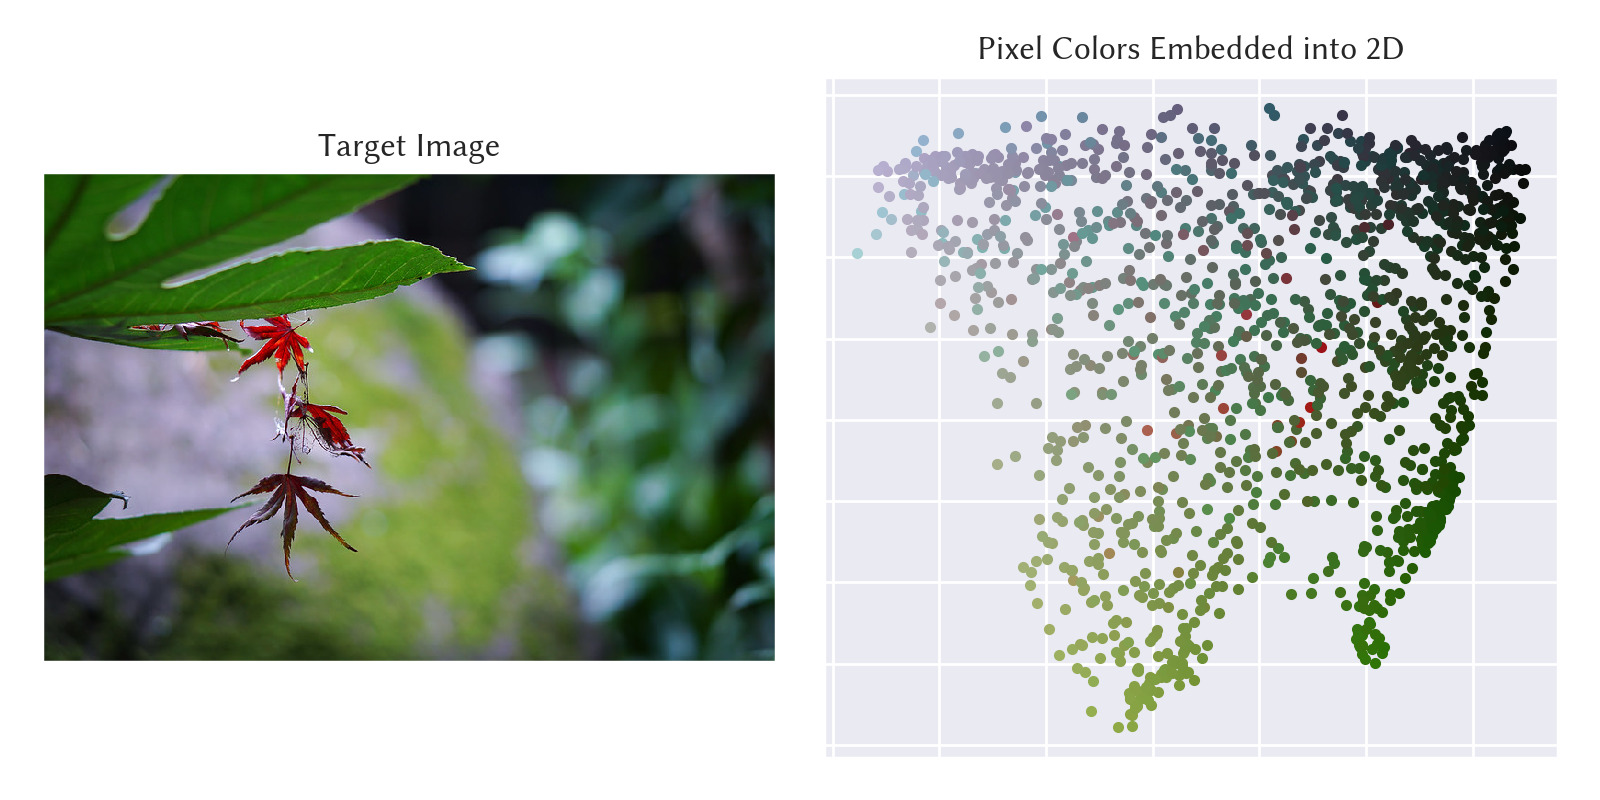
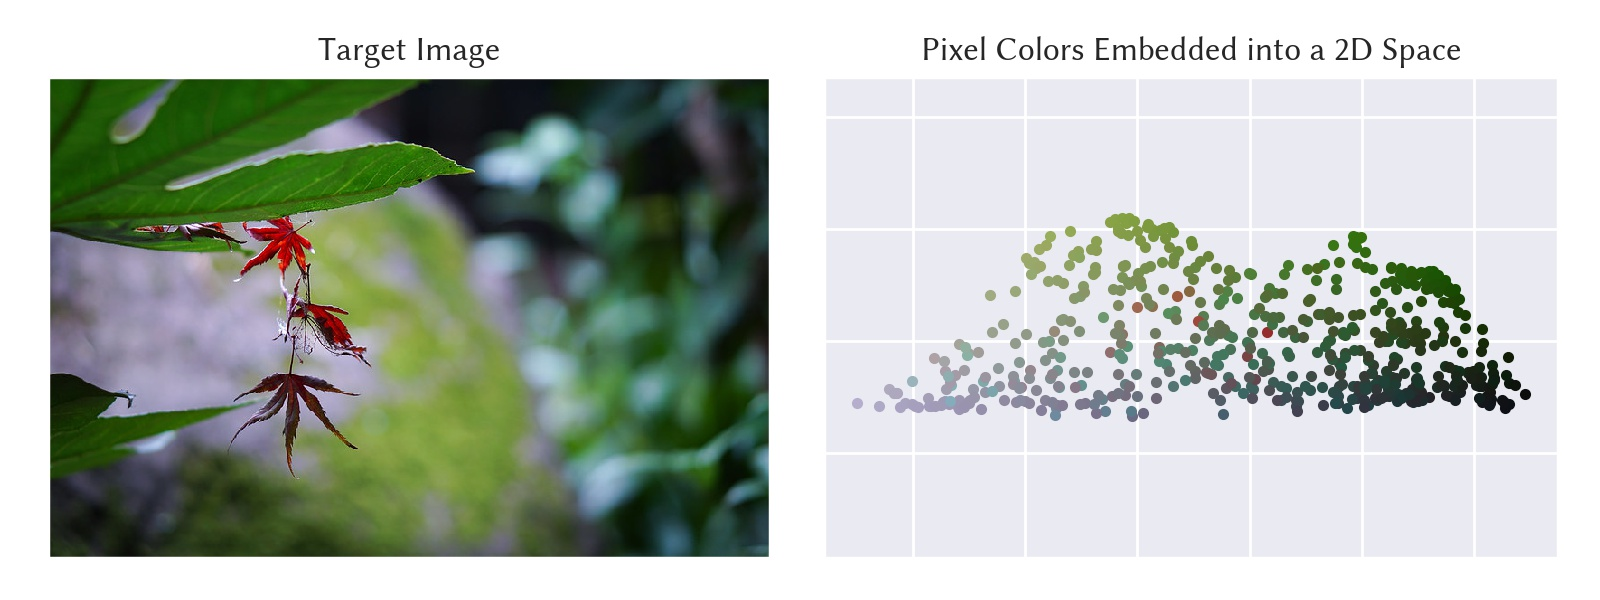
Fix classical MDS script and result

diff --git a/python-examples/classical-mds-image.py b/python-examples/classical-mds-image.py
@@ -22,7 +22,7 @@ D = squareform(pdist(colors))
 X = pymathtoolbox.compute_classical_mds(D=D, dim=2)
 
 # Define constants for plot
-FIG_SIZE = (8, 4)
+FIG_SIZE = (8, 3)
 IMAGE_FORMAT = "png"
 DPI = 200
 
@@ -43,9 +43,10 @@ ax.set_yticks([])
 ax.imshow(image)
 
 ax = fig.add_subplot(1, 2, 2)
-ax.set_title("Pixel Colors Embedded into 2D")
+ax.set_title("Pixel Colors Embedded into a 2D Space")
 ax.set_xticklabels([])
 ax.set_yticklabels([])
+ax.set_aspect("equal", adjustable="datalim")
 num_pixels = colors.shape[0]
 for i in range(num_pixels):
     ax.plot(X[0][i], X[1][i], color=colors[i], marker=".")
